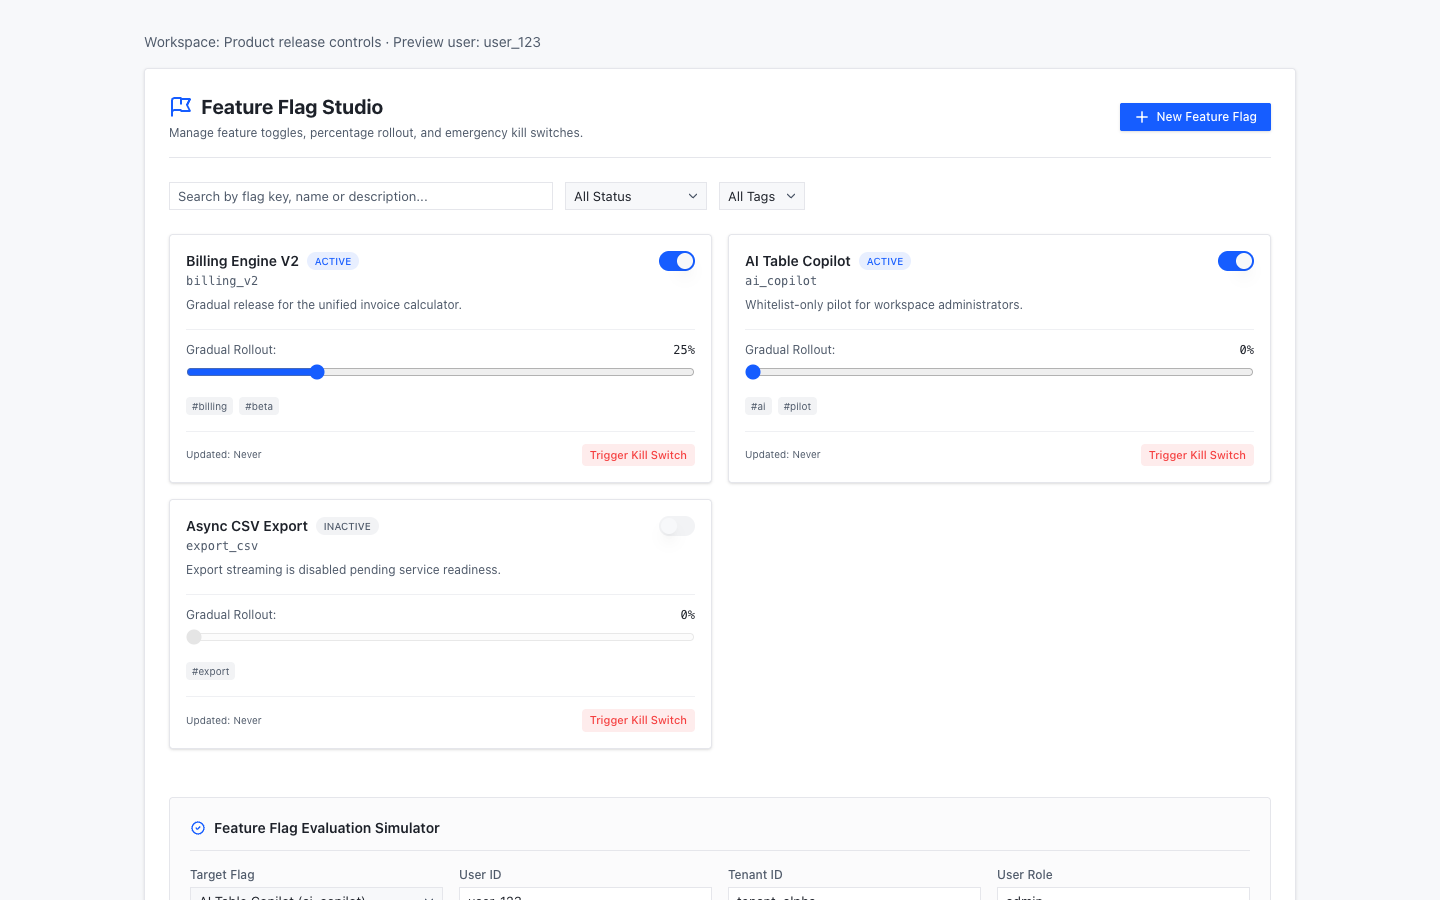
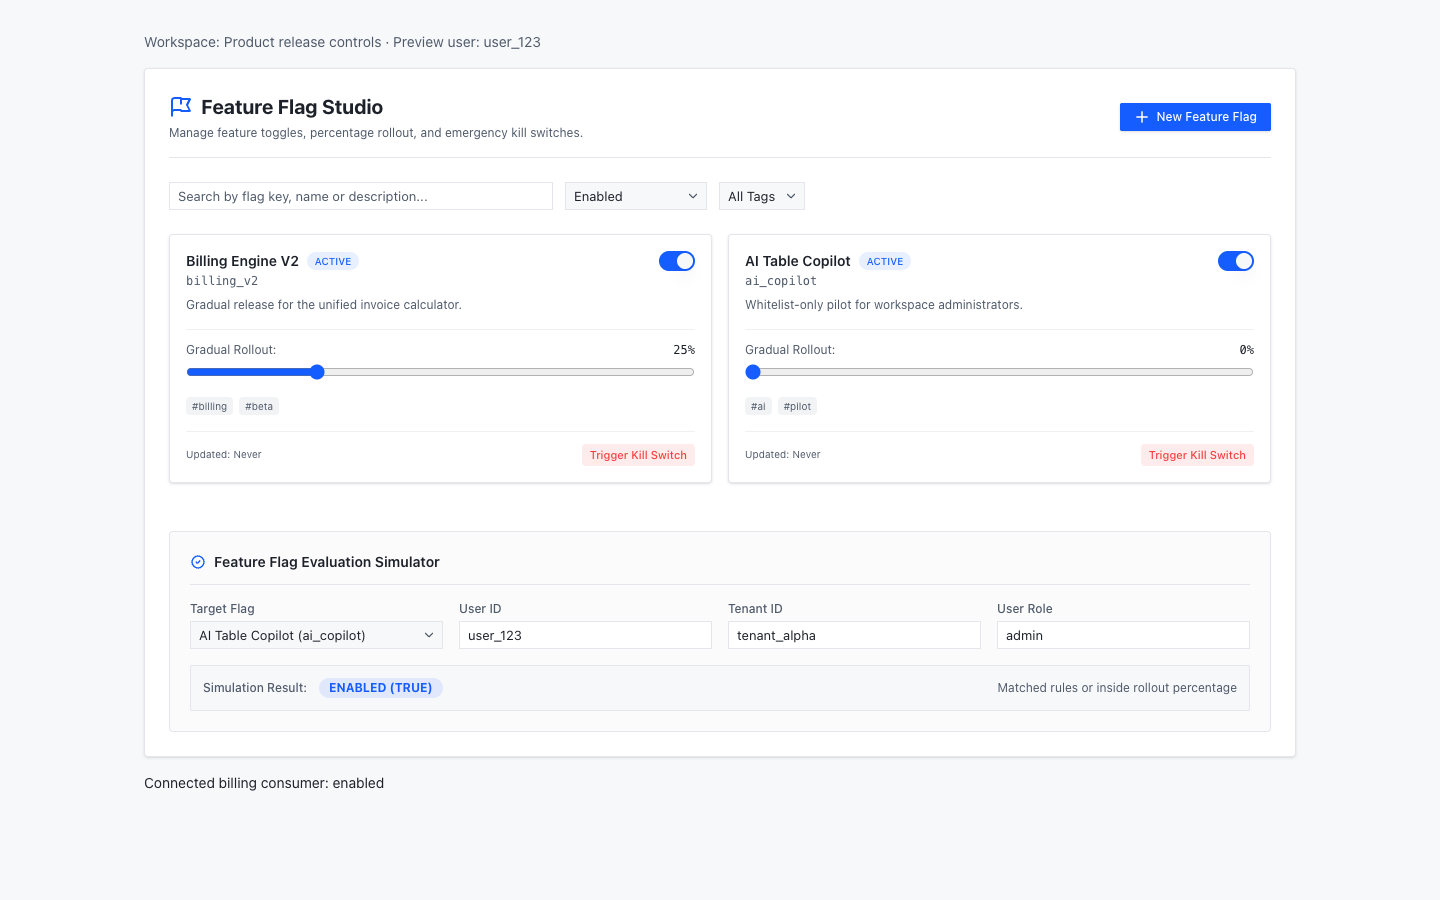
docs(ui): replace feature flag screenshots with real browser evidence

diff --git a/packages/ui/src/index.ts b/packages/ui/src/index.ts
@@ -959,6 +959,23 @@ export { default as SystemCapacityForecastCard, default as ResourceCapacityPredi
 // Enterprise workspace & multi-tenant context switcher suite
 export { default as TenantContextSwitcher, default as WorkspaceContextSwitcher, type TenantContextSwitcherProps, type TenantItem, type TenantRole } from './components/TenantContextSwitcher.svelte';
 
+// Enterprise feature flag & gray release control suite
+export { default as FeatureFlagStudio, default as GrayReleaseManager, type FeatureFlagStudioProps } from './components/FeatureFlagStudio.svelte';
+export {
+  useFeatureFlag,
+  createFeatureFlagRegistry,
+  evaluateFeatureFlag,
+  registerFeatureFlags,
+  setFeatureFlag,
+  getFeatureFlag,
+  clearFeatureFlags,
+  hashStringToPercentage,
+  type FeatureFlag,
+  type FeatureFlagRule,
+  type FeatureFlagContext,
+  type FeatureFlagRegistry,
+} from './components/useFeatureFlag.svelte.js';
+
 // Enterprise global omnibar command palette & resource search suite
 export { default as OmnibarCommandPalette, default as GlobalCommandOmnibar, type OmnibarCommandPaletteProps, type CommandPaletteItem } from './components/OmnibarCommandPalette.svelte';
 
@@ -980,20 +997,3 @@ export { default as MicroAppSandbox, default as SubAppRuntimeSandbox, type Micro
 export { useMicroAppState, type UseMicroAppStateOptions, type MicroAppStateMessage } from './components/useMicroAppState.svelte.js';
 export { default as MicroAppStateBusIndicator, default as CrossAppStateBus, type MicroAppStateBusIndicatorProps } from './components/MicroAppStateBusIndicator.svelte';
 export { default as MicroAppRouteSync, default as SubAppUrlSynchronizer, type MicroAppRouteSyncProps } from './components/MicroAppRouteSync.svelte';
-
-// Enterprise feature flag & gray release control suite
-export { default as FeatureFlagStudio, default as GrayReleaseManager, type FeatureFlagStudioProps } from './components/FeatureFlagStudio.svelte';
-export {
-  useFeatureFlag,
-  createFeatureFlagRegistry,
-  evaluateFeatureFlag,
-  registerFeatureFlags,
-  setFeatureFlag,
-  getFeatureFlag,
-  clearFeatureFlags,
-  hashStringToPercentage,
-  type FeatureFlag,
-  type FeatureFlagRule,
-  type FeatureFlagContext,
-  type FeatureFlagRegistry,
-} from './components/useFeatureFlag.svelte.js';

diff --git a/packages/ui/src/public-alias-exports.test.ts b/packages/ui/src/public-alias-exports.test.ts
@@ -36,6 +36,8 @@ import {
   LightFilter,
   LockScreen,
   ScreenLock,
+  FeatureFlagStudio,
+  GrayReleaseManager,
   GlobalShortcuts,
   TreeTransfer,
   OrgTreePicker,
@@ -267,8 +269,6 @@ import {
   TooltipButton,
   FullscreenButton,
   FullScreenButton,
-  FeatureFlagStudio,
-  GrayReleaseManager,
   message,
   notification,
   toast,
@@ -400,6 +400,8 @@ describe('public compatibility aliases', () => {
     expect(LightFilter).toBeDefined();
     expect(LockScreen).toBeDefined();
     expect(ScreenLock).toBeDefined();
+    expect(FeatureFlagStudio).toBeDefined();
+    expect(GrayReleaseManager).toBe(FeatureFlagStudio);
     expect(GlobalShortcuts).toBeDefined();
     expect(PricingTable).toBeDefined();
     expect(UsageCard).toBeDefined();
@@ -534,8 +536,6 @@ describe('public compatibility aliases', () => {
     expect(FullscreenButton).toBeDefined();
     expect(FullScreenButton).toBe(FullscreenButton);
     expect(Segmented).toBe(SegmentedControl);
-    expect(FeatureFlagStudio).toBeDefined();
-    expect(GrayReleaseManager).toBe(FeatureFlagStudio);
   });
 
   it('keeps service aliases bound to canonical services', () => {

diff --git a/scripts/fixtures/pr794/README.md b/scripts/fixtures/pr794/README.md
@@ -1,0 +1,45 @@
+# FeatureFlagStudio review fixture
+
+This fixture imports the actual component and its scoped registry from `packages/ui/src`, plus the existing UI stylesheet. It performs no network mutations and has no backend service integration.
+
+From the repository root:
+
+```sh
+bun install
+bun run --cwd packages/ui build:styles
+bun run vite --config scripts/fixtures/pr794/vite.config.ts
+```
+
+Open `http://127.0.0.1:4194/`. Styles must be generated before starting Vite. A clean checkout needs no full workspace package build for this fixture.
+
+## Captured states
+
+- `docs/pr-evidence/pr-feature-flag/1440x900.png`: 1440×900, status filter `Enabled`, target flag `AI Table Copilot`, role `admin`; the zero-percent flag evaluates true through its explicit role allow rule.
+- `docs/pr-evidence/pr-feature-flag/1920x1080.png`: 1920×1080, Billing Engine V2 kill-switch confirmation open. No change is applied before the confirmation button is pressed.
+
+These replace the original PR attachments, which depicted an unrelated unsaved-changes dialog.
+
+## Browser verification
+
+Use the Playwright CLI skill wrapper in an isolated CLI session. Run the wrapper from `/tmp` if npm rejects the workspace's existing dependency-override syntax:
+
+```sh
+npm_config_offline=true /Users/zhd/.codex/skills/playwright/scripts/playwright_cli.sh --session pr794 open http://127.0.0.1:4194/
+npm_config_offline=true /Users/zhd/.codex/skills/playwright/scripts/playwright_cli.sh --session pr794 resize 1440 900
+npm_config_offline=true /Users/zhd/.codex/skills/playwright/scripts/playwright_cli.sh --session pr794 snapshot
+```
+
+Read each fresh snapshot and use its refs for `select`, `click`, and `screenshot --filename=...`. Set the status and target selectors as described above, then capture the first viewport. Resize to 1920×1080, click Billing Engine V2's `Trigger Kill Switch`, read a fresh snapshot, and capture the dialog state.
+
+Confirmed in the real browser:
+
+1. The role whitelist enables AI Table Copilot despite its 0% rollout.
+2. Opening or cancelling the kill-switch dialog leaves the connected billing consumer enabled.
+3. Confirming the kill switch changes the same-registry billing consumer to disabled and disables the card switch.
+4. Revoke Kill Switch restores the consumer. Escape closes the confirmation without changing the flag.
+
+The component test file additionally covers SSR/request isolation, reactive registry/context updates, input/output snapshot isolation, prop replacement and stale filter reset, duplicate keys, and invalid percentages:
+
+```sh
+bun run --cwd packages/ui test src/components/feature-flag.test.svelte.ts
+```

diff --git a/docs/src/content/docs/components/enterprise.md b/docs/src/content/docs/components/enterprise.md
@@ -3156,21 +3156,6 @@ Cross-app reactive state bus and event message stream:
 <MicroAppStateBusIndicator />
 ```
 
-### `<MicroAppRouteSync>` / `<SubAppUrlSynchronizer>`
-
-Micro-frontend parent-child SPA route synchronization coordinator:
-- Eliminates 404 page refresh failures and broken browser back/forward history in embedded micro-apps.
-- **Bi-Directional Mapping**: Maps sub-app internal routes to host query parameters and synchronizes on popstate events.
-- **Route Breadcrumb Stack**: Provides history back navigation and deep-link copying.
-
-```svelte
-<script lang="ts">
-  import { MicroAppRouteSync } from '@svadmin/ui';
-</script>
-
-<MicroAppRouteSync initialRoute="/reports/quarterly-gmv/details" />
-```
-
 ### `<FeatureFlagStudio>` / `<GrayReleaseManager>`
 
 Feature flag configuration editor and gradual rollout simulator. It evaluates the current registry and reports edits through `onChange`; the host application persists those changes through its own service integration.
@@ -3201,3 +3186,18 @@ Create one registry in each application root (and each SSR request) and pass tha
 `useFeatureFlag` reacts to registry writes and reactive context values. Registry reads/writes use detached snapshots. `registerFeatureFlags`, `setFeatureFlag`, `getFeatureFlag`, and `clearFeatureFlags` accept an optional registry as their final argument. Their default registry is browser-only; SSR callers must provide a request-local instance. A studio without an explicit registry owns an isolated registry and does not publish to the browser default.
 
 Replacing the `flags` prop replaces the editor snapshot and removes stale entries from its connected registry. `onChange(flag)` receives a detached snapshot for persistence; updating it does not mutate the editor or the caller's original input. A 0% rollout with allow rules is useful for early-access whitelists.
+
+### `<MicroAppRouteSync>` / `<SubAppUrlSynchronizer>`
+
+Micro-frontend parent-child SPA route synchronization coordinator:
+- Eliminates 404 page refresh failures and broken browser back/forward history in embedded micro-apps.
+- **Bi-Directional Mapping**: Maps sub-app internal routes to host query parameters and synchronizes on popstate events.
+- **Route Breadcrumb Stack**: Provides history back navigation and deep-link copying.
+
+```svelte
+<script lang="ts">
+  import { MicroAppRouteSync } from '@svadmin/ui';
+</script>
+
+<MicroAppRouteSync initialRoute="/reports/quarterly-gmv/details" />
+```

diff --git a/docs/src/content/docs/zh-cn/components/enterprise.md b/docs/src/content/docs/zh-cn/components/enterprise.md
@@ -3047,21 +3047,6 @@ AI 规则语义解释卡片：
 <MicroAppStateBusIndicator />
 ```
 
-### `<MicroAppRouteSync>` / `<SubAppUrlSynchronizer>`
-
-微前端父子单页应用路由双向无感同步协调器：
-- 解决微前端经典架构痛点：子应用内部切页后刷新丢失、404 以及浏览器前进后退断裂。
-- **双向无感映射**：将子应用单页路由编码映射为宿主查询参数（如 `?subAppRoute=/reports/details`），并在宿主 popstate 时反向通知子应用。
-- **路由栈历史回放**：直观展示快捷路由栈与一键复制带深层路径的完整分享链接。
-
-```svelte
-<script lang="ts">
-  import { MicroAppRouteSync } from '@svadmin/ui';
-</script>
-
-<MicroAppRouteSync initialRoute="/reports/quarterly-gmv/details" />
-```
-
 ### `<FeatureFlagStudio>` / `<GrayReleaseManager>`
 
 功能开关配置编辑器与渐进发布模拟器。组件在当前注册表中评估配置，通过 `onChange` 通知编辑结果；持久化由宿主应用对接自己的服务完成。
@@ -3092,3 +3077,18 @@ AI 规则语义解释卡片：
 `useFeatureFlag` 随注册表写入和响应式上下文变化更新。读写均隔离配置快照。`registerFeatureFlags`、`setFeatureFlag`、`getFeatureFlag`、`clearFeatureFlags` 的最后一个参数可传入注册表；默认注册表仅供浏览器使用，SSR 必须显式传入请求实例。没有传入注册表的 Studio 拥有独立状态，不会写入浏览器默认注册表。
 
 替换 `flags` 属性会同步编辑器快照，并从关联注册表移除过期条目。`onChange(flag)` 提供用于持久化的独立快照，修改它不会影响编辑器或最初的输入对象。设置 0% 比例并配置白名单，可实现仅向试用用户开放。
+
+### `<MicroAppRouteSync>` / `<SubAppUrlSynchronizer>`
+
+微前端父子单页应用路由双向无感同步协调器：
+- 解决微前端经典架构痛点：子应用内部切页后刷新丢失、404 以及浏览器前进后退断裂。
+- **双向无感映射**：将子应用单页路由编码映射为宿主查询参数（如 `?subAppRoute=/reports/details`），并在宿主 popstate 时反向通知子应用。
+- **路由栈历史回放**：直观展示快捷路由栈与一键复制带深层路径的完整分享链接。
+
+```svelte
+<script lang="ts">
+  import { MicroAppRouteSync } from '@svadmin/ui';
+</script>
+
+<MicroAppRouteSync initialRoute="/reports/quarterly-gmv/details" />
+```
